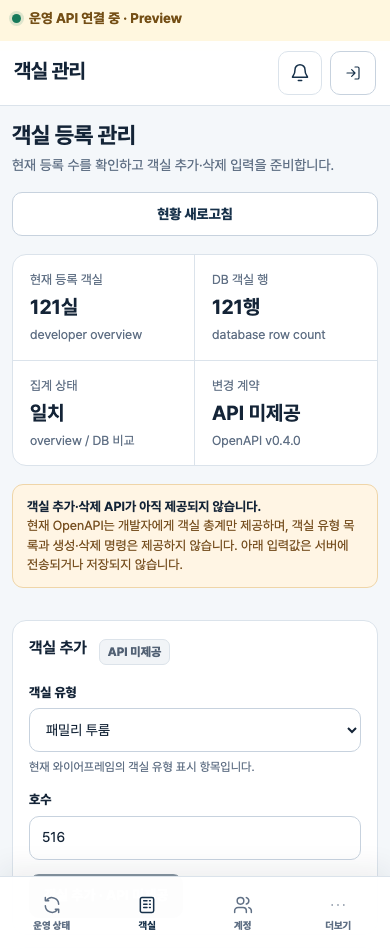
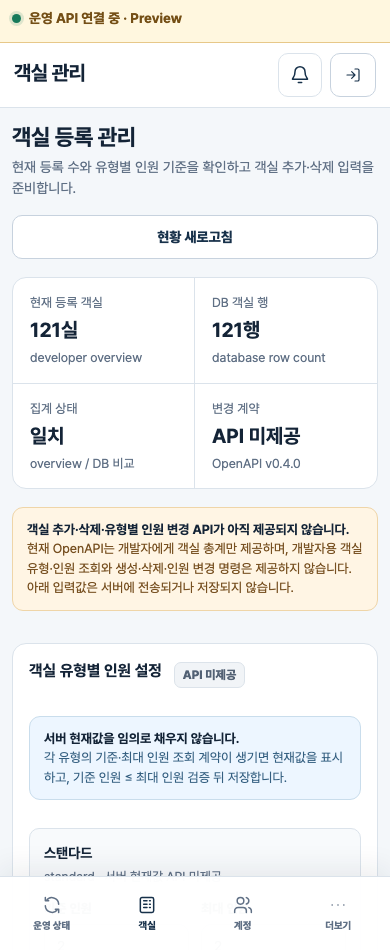
feat: 객실 유형별 인원 설정을 추가 (#161)

diff --git a/WIREFRAME/index.html b/WIREFRAME/index.html
@@ -1916,6 +1916,13 @@
     .live-developer-room-form .select-control, .live-developer-room-form .input-control { width:100%; }
     .live-developer-room-actions { display:flex; align-items:center; gap:10px; flex-wrap:wrap; }
     .live-developer-room-actions .btn { min-height:44px; }
+    .live-developer-capacity-card { display:grid; gap:14px; }
+    .live-developer-capacity-list { display:grid; gap:10px; }
+    .live-developer-capacity-row { display:grid; grid-template-columns:minmax(190px,1.4fr) repeat(2,minmax(120px,1fr)); align-items:end; gap:12px; padding:14px; border:1px solid var(--line); border-radius:10px; background:var(--surface-soft); }
+    .live-developer-capacity-type strong, .live-developer-capacity-type span { display:block; }
+    .live-developer-capacity-type span { margin-top:3px; color:var(--muted); font-size:.8rem; }
+    .live-developer-capacity-row .field { margin:0; }
+    .live-developer-capacity-row .input-control { width:100%; }
     @media (max-width:720px) {
       .assignment-disclosure-body, .weekly-availability-body { padding:0 14px 14px; }
       .live-strip-inner { align-items:flex-start; padding:8px 12px; }
@@ -1928,6 +1935,8 @@
       .live-room-grid, .live-account-grid, .live-reservation-grid { grid-template-columns:1fr; gap:8px; padding:14px; }
       .live-availability-days { grid-template-columns:repeat(4,minmax(0,1fr)); }
       .live-operation-grid, .live-dev-grid, .live-developer-room-grid { grid-template-columns:1fr; }
+      .live-developer-capacity-row { grid-template-columns:repeat(2,minmax(0,1fr)); align-items:start; }
+      .live-developer-capacity-type { grid-column:1/-1; }
       .live-actions { justify-content:flex-start; padding-top:4px; }
       .live-actions .btn { min-height:44px; }
       .live-toolbar { align-items:stretch; }
@@ -3757,7 +3766,8 @@
         const slice=state.remote.developer,stateMarkup=renderLiveRemoteState(slice,{label:'개발자 객실 현황',retryAction:'refresh-live-developer'});if(stateMarkup)return `<div class="live-page">${stateMarkup}</div>`;
         const overview=slice.overview||{},database=slice.database||overview.database||{},totalRooms=Number(overview.rooms?.total)||0,databaseRooms=Number(database.rowCounts?.rooms)||0,countAligned=totalRooms===databaseRooms;
         const roomTypeOptions=LIVE_ROOM_TYPE_ORDER.map(id=>`<option value="${id}">${esc(LIVE_ROOM_TYPE_LABELS[id])}</option>`).join('');
-        return `<div class="live-page" data-live-developer-rooms><div class="live-page-head"><div><h2>객실 등록 관리</h2><p>현재 등록 수를 확인하고 객실 추가·삭제 입력을 준비합니다.</p></div>${button('현황 새로고침','refresh-live-developer','outline')}</div><div class="live-summary" aria-label="개발자 객실 현황"><div><span>현재 등록 객실</span><strong>${totalRooms}실</strong><small>developer overview</small></div><div><span>DB 객실 행</span><strong>${databaseRooms}행</strong><small>database row count</small></div><div><span>집계 상태</span><strong>${countAligned?'일치':'확인 필요'}</strong><small>overview / DB 비교</small></div><div><span>변경 계약</span><strong>API 미제공</strong><small>OpenAPI v0.4.0</small></div></div><div class="notice notice-warning" role="status"><div><strong>객실 추가·삭제 API가 아직 제공되지 않습니다.</strong><br>현재 OpenAPI는 개발자에게 객실 총계만 제공하며, 객실 유형 목록과 생성·삭제 명령은 제공하지 않습니다. 아래 입력값은 서버에 전송되거나 저장되지 않습니다.</div></div><div class="live-developer-room-grid"><section class="card card-pad" aria-labelledby="developer-room-create-title"><div class="section-head"><div><h3 id="developer-room-create-title">객실 추가</h3><p class="audit-note">유형과 호수를 입력한 뒤 서버 계약이 준비되면 등록합니다.</p></div>${statusBadge('API 미제공','neutral')}</div><div class="live-developer-room-form"><div class="field"><label for="developer-room-type">객실 유형</label><select id="developer-room-type" class="select-control" data-control="developer-room-type">${roomTypeOptions}</select><small>현재 와이어프레임의 객실 유형 표시 항목입니다.</small></div><div class="field"><label for="developer-room-number">호수</label><input id="developer-room-number" class="input-control" type="text" inputmode="numeric" maxlength="8" autocomplete="off" data-control="developer-room-number" placeholder="예: 516"></div><div class="live-developer-room-actions">${button('객실 추가 · API 미제공','developer-room-create','primary','disabled aria-disabled="true"')}</div></div></section><section class="card card-pad" aria-labelledby="developer-room-delete-title"><div class="section-head"><div><h3 id="developer-room-delete-title">객실 삭제</h3><p class="audit-note">호수를 지정하고 연결 데이터의 영향을 확인한 뒤 처리해야 합니다.</p></div>${statusBadge('API 미제공','neutral')}</div><div class="live-developer-room-form"><div class="field"><label for="developer-room-delete-number">삭제할 객실 호수</label><input id="developer-room-delete-number" class="input-control" type="text" inputmode="numeric" maxlength="8" autocomplete="off" data-control="developer-room-delete-number" placeholder="예: 516"></div><div class="notice notice-info"><div><strong>삭제 전 영향 확인 계약이 필요합니다.</strong><br>예약·청소·PIN 이력을 보존할 비활성화 또는 삭제 방식과 충돌 방지 version을 서버가 제공해야 합니다.</div></div><div class="live-developer-room-actions">${button('삭제 영향 확인 · API 미제공','developer-room-delete','outline','disabled aria-disabled="true"')}</div></div></section></div><p class="audit-note">마지막 동기화 ${esc(liveTimeLabel(slice.lastSuccessAt))} · API가 제공될 때까지 데모 객실을 운영 데이터에 섞지 않습니다.</p></div>`;
+        const capacityRows=LIVE_ROOM_TYPE_ORDER.map(id=>`<div class="live-developer-capacity-row" data-room-type-capacity="${id}"><div class="live-developer-capacity-type"><strong>${esc(LIVE_ROOM_TYPE_LABELS[id])}</strong><span>${esc(id)} · 서버 현재값 API 미제공</span></div><div class="field"><label for="developer-room-type-${id}-base">기준 인원</label><input id="developer-room-type-${id}-base" class="input-control" type="number" inputmode="numeric" min="1" step="1" autocomplete="off" data-control="developer-room-type-base" data-room-type="${id}" placeholder="현재값 없음"></div><div class="field"><label for="developer-room-type-${id}-max">최대 인원</label><input id="developer-room-type-${id}-max" class="input-control" type="number" inputmode="numeric" min="1" step="1" autocomplete="off" data-control="developer-room-type-max" data-room-type="${id}" placeholder="현재값 없음"></div></div>`).join('');
+        return `<div class="live-page" data-live-developer-rooms><div class="live-page-head"><div><h2>객실 등록 관리</h2><p>현재 등록 수와 유형별 인원 기준을 확인하고 객실 추가·삭제 입력을 준비합니다.</p></div>${button('현황 새로고침','refresh-live-developer','outline')}</div><div class="live-summary" aria-label="개발자 객실 현황"><div><span>현재 등록 객실</span><strong>${totalRooms}실</strong><small>developer overview</small></div><div><span>DB 객실 행</span><strong>${databaseRooms}행</strong><small>database row count</small></div><div><span>집계 상태</span><strong>${countAligned?'일치':'확인 필요'}</strong><small>overview / DB 비교</small></div><div><span>변경 계약</span><strong>API 미제공</strong><small>OpenAPI v0.4.0</small></div></div><div class="notice notice-warning" role="status"><div><strong>객실 추가·삭제·유형별 인원 변경 API가 아직 제공되지 않습니다.</strong><br>현재 OpenAPI는 개발자에게 객실 총계만 제공하며, 개발자용 객실 유형·인원 조회와 생성·삭제·인원 변경 명령은 제공하지 않습니다. 아래 입력값은 서버에 전송되거나 저장되지 않습니다.</div></div><section class="card card-pad live-developer-capacity-card" aria-labelledby="developer-room-capacity-title"><div class="section-head"><div><h3 id="developer-room-capacity-title">객실 유형별 인원 설정</h3><p class="audit-note">기준 인원은 초과 인원 표시 기준, 최대 인원은 예약 허용 상한으로 사용합니다.</p></div>${statusBadge('API 미제공','neutral')}</div><div class="notice notice-info"><div><strong>서버 현재값을 임의로 채우지 않습니다.</strong><br>각 유형의 기준·최대 인원 조회 계약이 생기면 현재값을 표시하고, 기준 인원 ≤ 최대 인원 검증 뒤 저장합니다.</div></div><div class="live-developer-capacity-list">${capacityRows}</div><div class="live-developer-room-actions">${button('유형별 인원 저장 · API 미제공','developer-room-capacity-save','primary','disabled aria-disabled="true"')}</div></section><div class="live-developer-room-grid"><section class="card card-pad" aria-labelledby="developer-room-create-title"><div class="section-head"><div><h3 id="developer-room-create-title">객실 추가</h3><p class="audit-note">유형과 호수를 입력한 뒤 서버 계약이 준비되면 등록합니다.</p></div>${statusBadge('API 미제공','neutral')}</div><div class="live-developer-room-form"><div class="field"><label for="developer-room-type">객실 유형</label><select id="developer-room-type" class="select-control" data-control="developer-room-type">${roomTypeOptions}</select><small>현재 와이어프레임의 객실 유형 표시 항목입니다.</small></div><div class="field"><label for="developer-room-number">호수</label><input id="developer-room-number" class="input-control" type="text" inputmode="numeric" maxlength="8" autocomplete="off" data-control="developer-room-number" placeholder="예: 516"></div><div class="live-developer-room-actions">${button('객실 추가 · API 미제공','developer-room-create','primary','disabled aria-disabled="true"')}</div></div></section><section class="card card-pad" aria-labelledby="developer-room-delete-title"><div class="section-head"><div><h3 id="developer-room-delete-title">객실 삭제</h3><p class="audit-note">호수를 지정하고 연결 데이터의 영향을 확인한 뒤 처리해야 합니다.</p></div>${statusBadge('API 미제공','neutral')}</div><div class="live-developer-room-form"><div class="field"><label for="developer-room-delete-number">삭제할 객실 호수</label><input id="developer-room-delete-number" class="input-control" type="text" inputmode="numeric" maxlength="8" autocomplete="off" data-control="developer-room-delete-number" placeholder="예: 516"></div><div class="notice notice-info"><div><strong>삭제 전 영향 확인 계약이 필요합니다.</strong><br>예약·청소·PIN 이력을 보존할 비활성화 또는 삭제 방식과 충돌 방지 version을 서버가 제공해야 합니다.</div></div><div class="live-developer-room-actions">${button('삭제 영향 확인 · API 미제공','developer-room-delete','outline','disabled aria-disabled="true"')}</div></div></section></div><p class="audit-note">마지막 동기화 ${esc(liveTimeLabel(slice.lastSuccessAt))} · API가 제공될 때까지 데모 객실·인원 값을 운영 데이터에 섞지 않습니다.</p></div>`;
       }
       const LIVE_PENDING_VIEW_COPY={
         quickReservation:{title:'간편 예약',icon:'calendar',summary:'예약 등록과 일정 조회 API가 준비되면 기존 예약표에 실데이터를 표시합니다.'},

diff --git a/DOCS/25_DEVELOPER_ROOM_CATALOG_CAPACITY_BACKEND_PROMPT.md b/DOCS/25_DEVELOPER_ROOM_CATALOG_CAPACITY_BACKEND_PROMPT.md
@@ -1,0 +1,238 @@
+# 개발자 객실·유형별 인원 관리 백엔드 구현 프롬프트
+
+상태: 백엔드 전달용 제안 계약  
+작성 기준: production OpenAPI `0.4.0` · 120 paths / 130 operations
+
+아래 프롬프트를 백엔드 구현 작업에 그대로 전달한다.
+
+---
+
+Repo: `wrongstory/room-management-system-backend`
+
+목표:
+
+프런트 개발자 화면에서 객실 총계만 보는 수준을 넘어 다음 기준정보를 안전하게 관리할 수 있는 API를 추가한다.
+
+1. 객실 유형별 `기준 인원`과 `최대 인원` 조회·변경
+2. 객실 호수와 유형을 지정한 객실 추가
+3. 예약·점유·청소·PIN 이력을 보존하는 객실 비활성화(프런트 문구는 객실 삭제)
+
+현재 계약과의 차이:
+
+- 현재 `DeveloperOverview.rooms`에는 `total`만 있다.
+- 현재 `GET /v1/room-types`는 active business admin 전용이고 `RoomTypeCatalogItem`에는 기준·최대 인원 필드가 없다.
+- 현재 `GET /v1/rooms`와 `PATCH /v1/rooms/{roomId}/master-data`도 admin 전용이다.
+- 현재 객실 생성, 삭제 또는 비활성화 명령과 객실 유형 인원 변경 명령은 없다.
+- 기존 인계 문서의 developer 역할은 계정·운영 상태만 허용한다. 이번 작업에서는 **객실 기준정보 관리만** developer에게 새로 허용하고, 예약·점유·청소·PIN 원문 등 운영 데이터 권한은 계속 금지한다.
+
+## 1. 공통 원칙
+
+- OpenAPI를 HTTP 계약의 정본으로 갱신하고 codegen 가능한 request/response schema, example, `x-required-roles`를 모두 제공한다.
+- developer 응답에는 고객명, 예약 상세, PIN 상태·원문, 청소 사진, 메이드 개인정보를 포함하지 않는다.
+- 모든 응답은 `Cache-Control: no-store`를 사용한다.
+- 모든 변경 명령은 `Idempotency-Key`와 `expectedVersion` CAS를 사용한다. 응답 유실로 같은 body를 재전송할 때만 같은 key를 재사용한다.
+- 오류는 `{ error: { code, message }, requestId }` 형태와 안정적인 `error.code`를 사용한다.
+- 객실 삭제는 DB hard delete로 구현하지 않는다. 감사·예약·점유·청소·PIN 이력을 보존하는 `inactive` 전환으로 구현한다.
+- service-role key, provider secret, PIN 원문은 응답·로그·감사 이벤트에 포함하지 않는다.
+
+## 2. 객실 유형 인원 필드
+
+기존 `RoomTypeCatalogItem`에 다음 required 필드를 추가한다.
+
+```yaml
+baseOccupancy:
+  type: integer
+  minimum: 1
+  description: 기준 인원. 예약 인원이 이 값보다 클 때 프런트가 실제 총 인원을 강조한다.
+maxOccupancy:
+  type: integer
+  minimum: 1
+  description: 이 객실 유형에 허용되는 예약 총 인원 상한.
+```
+
+항상 `baseOccupancy <= maxOccupancy`여야 한다. 상한의 최대 허용값이 별도로 있다면 OpenAPI `maximum`과 사람이 읽는 설명에 정확히 명시한다.
+
+이 문서의 JSON 숫자는 schema 설명용 예시일 뿐 production 초기값 승인으로 사용하지 않는다. 기존 네 유형의 실제 기준·최대 인원은 사용자 승인된 운영 자료로 migration backfill하고, 승인 근거가 없으면 프런트 데모값이나 임의 default로 채우지 않는다.
+
+기존 admin용 `GET /v1/room-types`도 이 두 필드를 반환해 예약 등록·수정 화면이 같은 서버 값을 사용하게 한다. 프런트가 객실 유형 코드별 인원 값을 하드코딩하게 하지 않는다.
+
+## 3. developer 전용 안전 조회
+
+### `GET /v1/developer/room-catalog`
+
+권한: 비밀번호 변경을 완료한 active `developer` 전용.
+
+운영 객실 projection을 재사용하지 말고 다음 기준정보만 반환한다.
+
+```json
+{
+  "generatedAt": "2026-09-20T00:00:00Z",
+  "summary": {
+    "total": 121,
+    "active": 121,
+    "inactive": 0
+  },
+  "roomTypes": [
+    {
+      "id": "uuid",
+      "code": "standard",
+      "displayName": "스탠다드",
+      "baseOccupancy": 2,
+      "maxOccupancy": 2,
+      "active": true,
+      "version": 1,
+      "roomCount": 22
+    }
+  ],
+  "rooms": [
+    {
+      "id": "uuid",
+      "roomNumber": "350",
+      "roomTypeId": "uuid",
+      "roomTypeCode": "standard",
+      "active": true,
+      "version": 1
+    }
+  ]
+}
+```
+
+`roomNumber`는 숫자가 아니라 안정적인 문자열로 유지한다. 목록에는 운영 상태, 예약 ID, 고객 정보, PIN·청소 정보를 넣지 않는다.
+
+## 4. 유형별 인원 변경
+
+### `POST /v1/developer/room-types/{roomTypeId}/capacity/preview`
+
+```json
+{
+  "baseOccupancy": 2,
+  "maxOccupancy": 4,
+  "expectedVersion": 3
+}
+```
+
+응답에는 다음을 포함한다.
+
+- `roomTypeId`, 현재값, 변경값
+- `roomCount`
+- 현재·미래 active 예약 수
+- 변경 후 최대 인원을 초과하게 되는 active 예약 수
+- PII 없는 blocker reason code 목록
+- 짧은 만료시간을 가진 `impactFingerprint`, `evaluatedAt`, `expiresAt`
+
+### `PATCH /v1/developer/room-types/{roomTypeId}/capacity`
+
+필수 header: `Idempotency-Key`
+
+```json
+{
+  "baseOccupancy": 2,
+  "maxOccupancy": 4,
+  "expectedVersion": 3,
+  "impactFingerprint": "opaque-preview-value",
+  "reasonCode": "CAPACITY_POLICY_CHANGE"
+}
+```
+
+preview와 값·version·영향이 달라졌으면 `409`로 거절한다. 최대 인원을 낮춰 기존 active 예약이 초과되는 경우에는 자동으로 예약을 취소하거나 인원을 줄이지 않는다. 서버 정책에 따라 변경을 차단하고 안정적인 reason code를 반환한다. 성공 시 증가한 room type version과 최신 카탈로그 항목을 반환하고 감사 이벤트를 남긴다.
+
+## 5. 객실 추가
+
+### `POST /v1/developer/rooms`
+
+필수 header: `Idempotency-Key`
+
+```json
+{
+  "roomNumber": "516",
+  "roomTypeId": "uuid",
+  "expectedRoomTypeVersion": 3,
+  "reasonCode": "ROOM_CATALOG_ADD"
+}
+```
+
+- `roomNumber` 정규화·중복 검증을 서버에서 수행한다.
+- active 객실 유형만 선택할 수 있다.
+- 새 객실은 불변 UUID와 version을 가진다.
+- 새 객실을 즉시 `READY`로 만들지 않는다. 운영 준비·PIN·기준정보 확인에 필요한 안전한 초기 상태를 사용한다.
+- 성공 응답에는 developer용 객실 항목, 최신 총계, 사용한 객실 유형 항목만 반환한다.
+
+## 6. 객실 삭제 영향 확인과 비활성화
+
+### `POST /v1/developer/rooms/{roomId}/deactivation/preview`
+
+```json
+{
+  "expectedVersion": 4
+}
+```
+
+응답에는 PII 없이 다음 영향 수와 blocker를 반환한다.
+
+- 현재 점유 여부
+- active·future 예약 수
+- 진행 중 청소 대상·배정·attempt 수
+- 활성 PIN 변경 lease 존재 여부
+- 미해결 운영 차단·이슈 수
+- `canDeactivate`, `reasonCodes`
+- `impactFingerprint`, `evaluatedAt`, `expiresAt`
+
+### `POST /v1/developer/rooms/{roomId}/deactivate`
+
+필수 header: `Idempotency-Key`
+
+```json
+{
+  "expectedVersion": 4,
+  "impactFingerprint": "opaque-preview-value",
+  "reasonCode": "ROOM_CATALOG_REMOVE"
+}
+```
+
+현재 점유, active/future 예약, 진행 중 청소, 활성 PIN lease가 있으면 거절한다. 성공하면 객실을 inactive로 바꾸고 신규 예약·배정 후보에서 제외하되 기존 이력과 참조 무결성을 보존한다. 같은 명령 재전송은 중복 감사 이벤트나 중복 상태 전이를 만들지 않는다.
+
+## 7. 예약 인원 계약 연결
+
+- `POST /v1/reservations/bookability/preview` 요청에 `guestCount`를 계약상 포함해 각 candidate가 해당 유형의 `maxOccupancy`를 초과하는지 서버에서 판단하게 한다.
+- 초과 후보는 `intervalBookable=false`와 안정적인 `GUEST_COUNT_EXCEEDS_ROOM_TYPE_CAPACITY` reason code를 반환한다. 이 판정은 `checkInReady`와 섞지 않는다.
+- 예약 생성·변경에서도 동일한 maxOccupancy를 다시 검증한다. preview를 통과했더라도 최신 type version과 capacity를 기준으로 commit 시 재검증한다.
+- `baseOccupancy` 초과는 예약 불가 사유가 아니다. 프런트의 `N명` 강조와 `인원 추가` 필터 기준으로만 사용한다.
+- 인원 기준 변경은 기존 예약의 guestCount, 과거 정산·청소 snapshot을 소급 수정하지 않는다.
+
+## 8. 안정적인 오류 코드
+
+최소 다음 code를 OpenAPI enum과 테스트에 추가한다.
+
+- `ROOM_TYPE_CAPACITY_INVALID`
+- `ROOM_TYPE_CAPACITY_ACTIVE_RESERVATION_CONFLICT`
+- `ROOM_TYPE_CAPACITY_PREVIEW_STALE`
+- `ROOM_TYPE_VERSION_CONFLICT`
+- `ROOM_NUMBER_ALREADY_EXISTS`
+- `ROOM_TYPE_INACTIVE`
+- `ROOM_DEACTIVATION_BLOCKED`
+- `ROOM_DEACTIVATION_PREVIEW_STALE`
+- `GUEST_COUNT_EXCEEDS_ROOM_TYPE_CAPACITY`
+
+권한·세션 오류는 기존 `401/403`, CAS·preview stale은 `409`, 존재하지 않는 ID는 `404`, 유효성 오류는 `400`을 유지한다.
+
+## 9. 검증과 완료 조건
+
+- developer는 위 developer catalog API만 사용할 수 있고 기존 운영 객실·예약·PIN endpoint는 계속 `403`이다.
+- admin과 maid가 developer 변경 endpoint를 호출하면 `403`이다.
+- 기준 인원 0, 최대 인원 0, 소수, `baseOccupancy > maxOccupancy`를 거절한다.
+- 동일 Idempotency-Key·동일 body 재전송은 같은 결과를 반환하고 중복 변경을 만들지 않는다.
+- 다른 body에 같은 key를 사용하면 기존 멱등성 충돌 규칙으로 거절한다.
+- stale expectedVersion과 stale impactFingerprint를 `409`로 거절한다.
+- 객실 호수 중복 생성 경쟁을 DB unique constraint로 막는다.
+- 참조 이력이 있는 객실은 hard delete되지 않으며 비활성화 뒤에도 과거 예약·청소·감사 조회의 참조가 유지된다.
+- OpenAPI 생성 타입과 backend tests를 갱신한다.
+- 새 계약 배포 뒤 OpenAPI version, 전체 paths/operations 수, 배포 source commit, migration 수를 프런트 인계 문서에 기록한다.
+
+금지:
+
+- 기존 admin 운영 projection을 developer에게 그대로 공개하기
+- 프런트에 service-role key나 provider secret 전달하기
+- 객실 삭제 시 예약·청소·PIN·감사 이력을 cascade hard delete하기
+- 한국어 `message` 문자열을 프런트 분기 계약으로 사용하기
+- 기준 인원 초과를 최대 인원 초과와 같은 예약 불가로 처리하기
+- 최대 인원을 초과한 예약을 서버가 임의로 취소하거나 인원 변경하기
